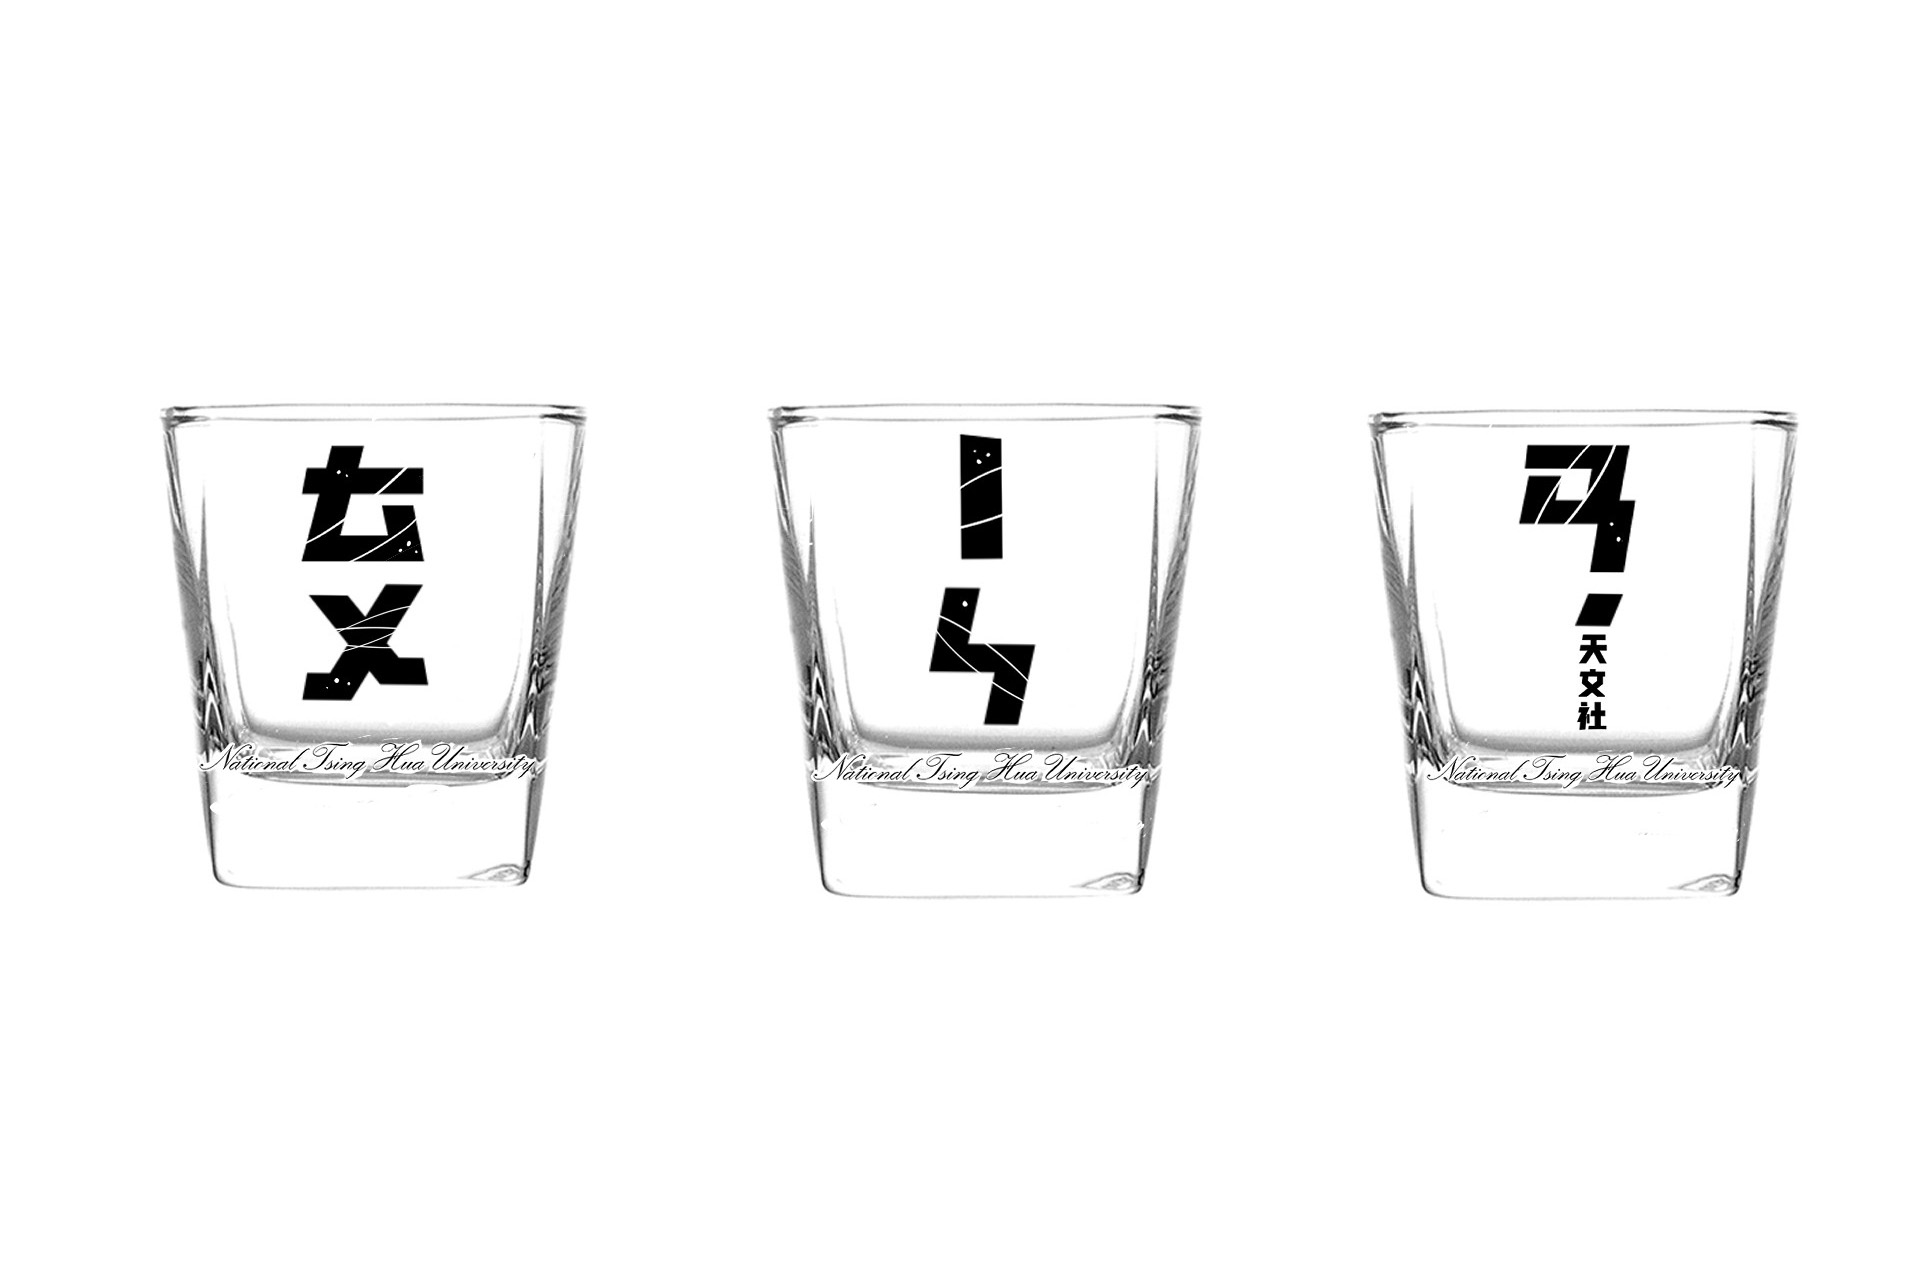
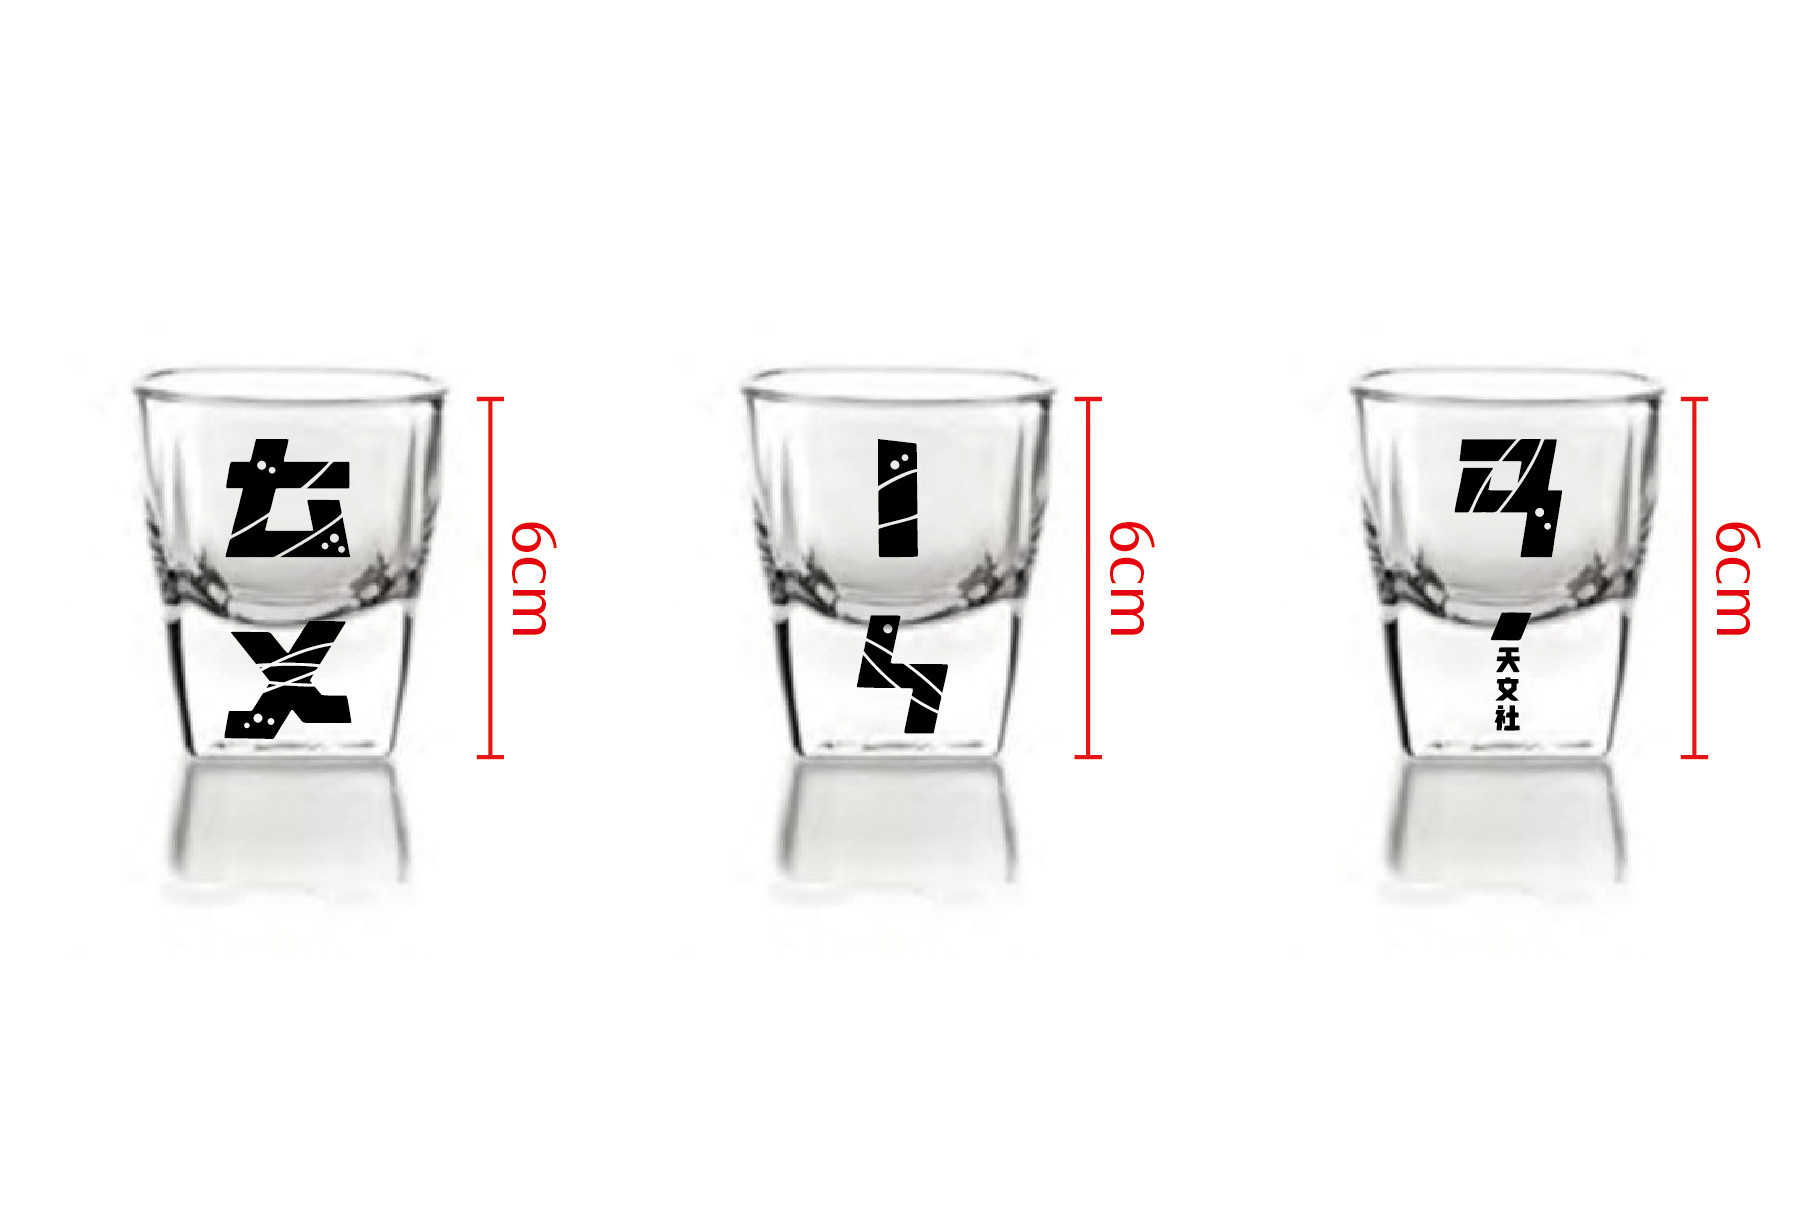
feat: update goods picture

Changed region(s): [[0.7104, 0.306, 0.9884, 0.7345], [0.0618, 0.306, 0.3089, 0.7345], [0.4015, 0.306, 0.6486, 0.7345]]

diff --git a/pages/donation.tsx b/pages/donation.tsx
@@ -38,7 +38,7 @@ const goods: TGoods[] = [
   },
   {
     imageUrl: '/img/goods-3.jpg',
-    imageDetailUrl: '/img/goods-3.jpg',
+    imageDetailUrl: '/img/goods-7.jpg',
     title: '紀念酒杯組',
     name: '紀念酒杯組（350 元／組）',
     description:
